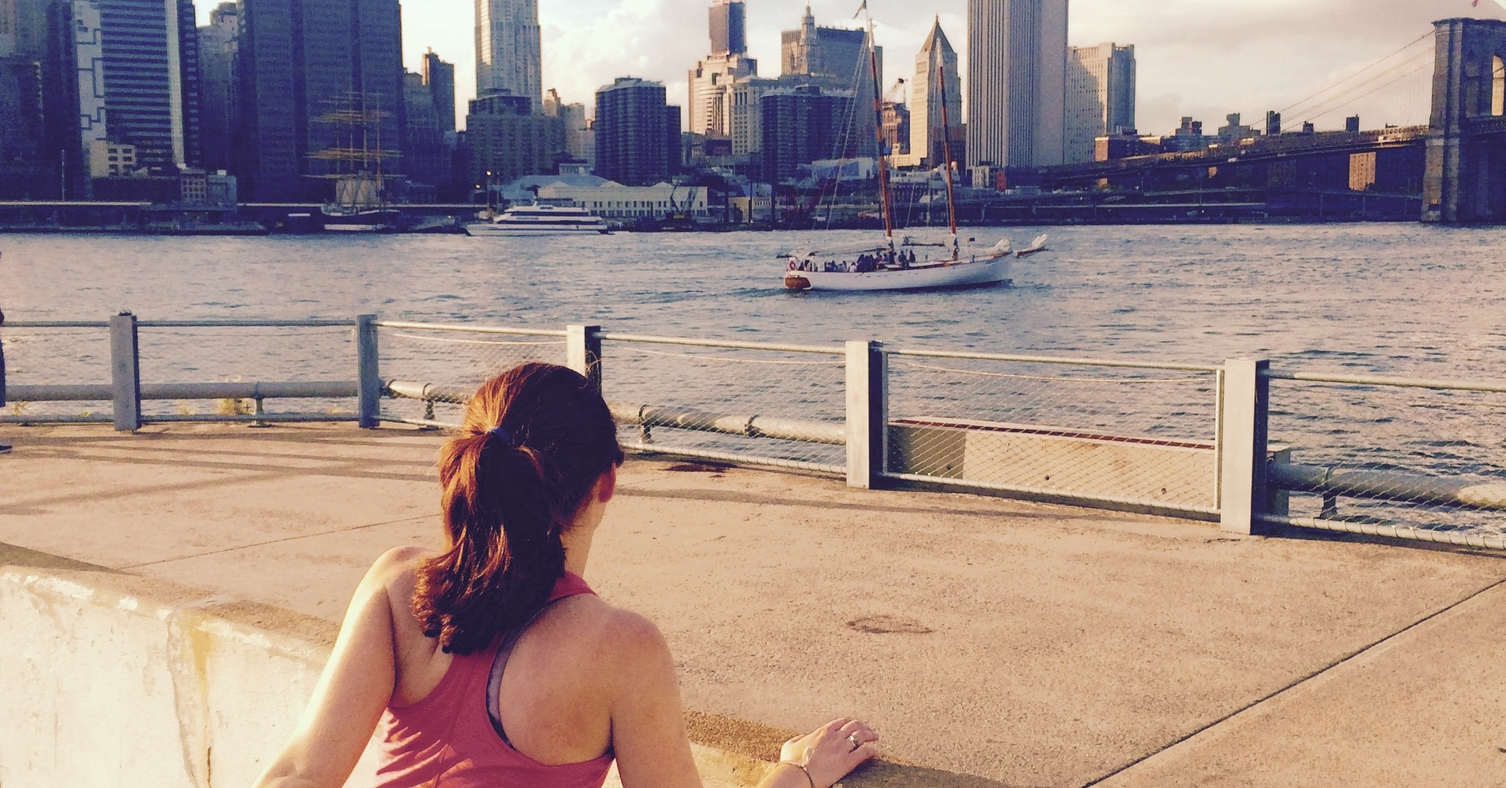
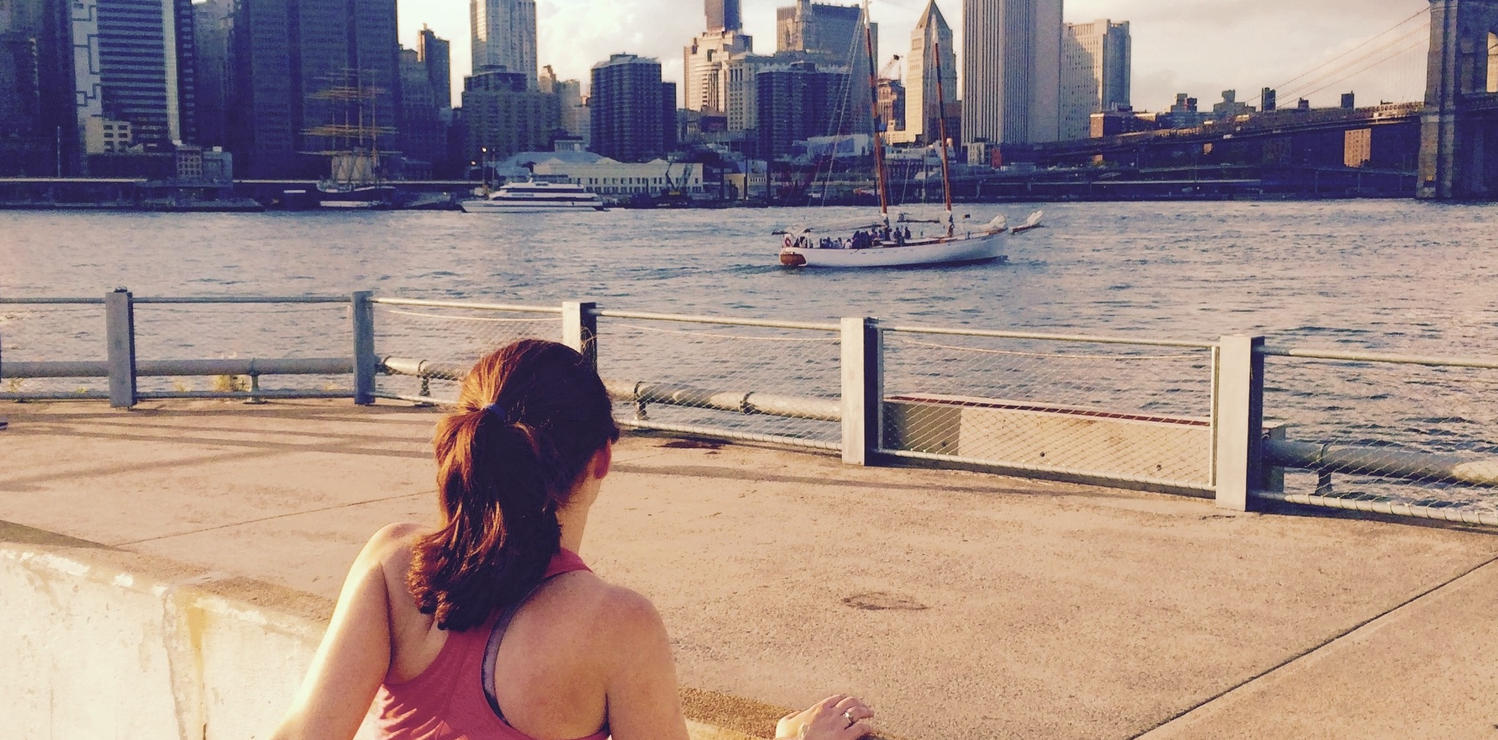
cropped image, added in html center tags

diff --git a/unit_3/index.html b/unit_3/index.html
@@ -11,9 +11,9 @@
 
 		<p id="slogan">A step-by-step account of my goal to reach 5 million steps in 2016 by walking, running, or just generally exploring lower Manhattan every way I can.</p>
 
-	<div id="mainimage">
-	<img src="images/brooklynwaterworkout1.jpg" alt("New York City outdoor run") title="NYC Outdoor run" width="1000" height="520" align="middle">
-	</div>
+	<center>
+	<img src="images/brooklynwaterworkout1.jpg" alt("New York City outdoor run") title="NYC Outdoor run" width="1000" height="520">
+	</center>
 
 <hr>
 	<p id="contact">Contact Me: <a href="hannah.farmer8@gmail.com">hannah.farmer8@gmail.com</a></p>

diff --git a/unit_3/css/style.css b/unit_3/css/style.css
@@ -17,12 +17,6 @@ h1 {
 	font-style: italic;
 	color: rgb(255,185,110);
 	text-align: center;
-}
-
-#mainimage {
-	background-image: center;
-	vertical-align: center;
-}
 
 #contact {
 	font-family: "Lucida Grande", Sans;
